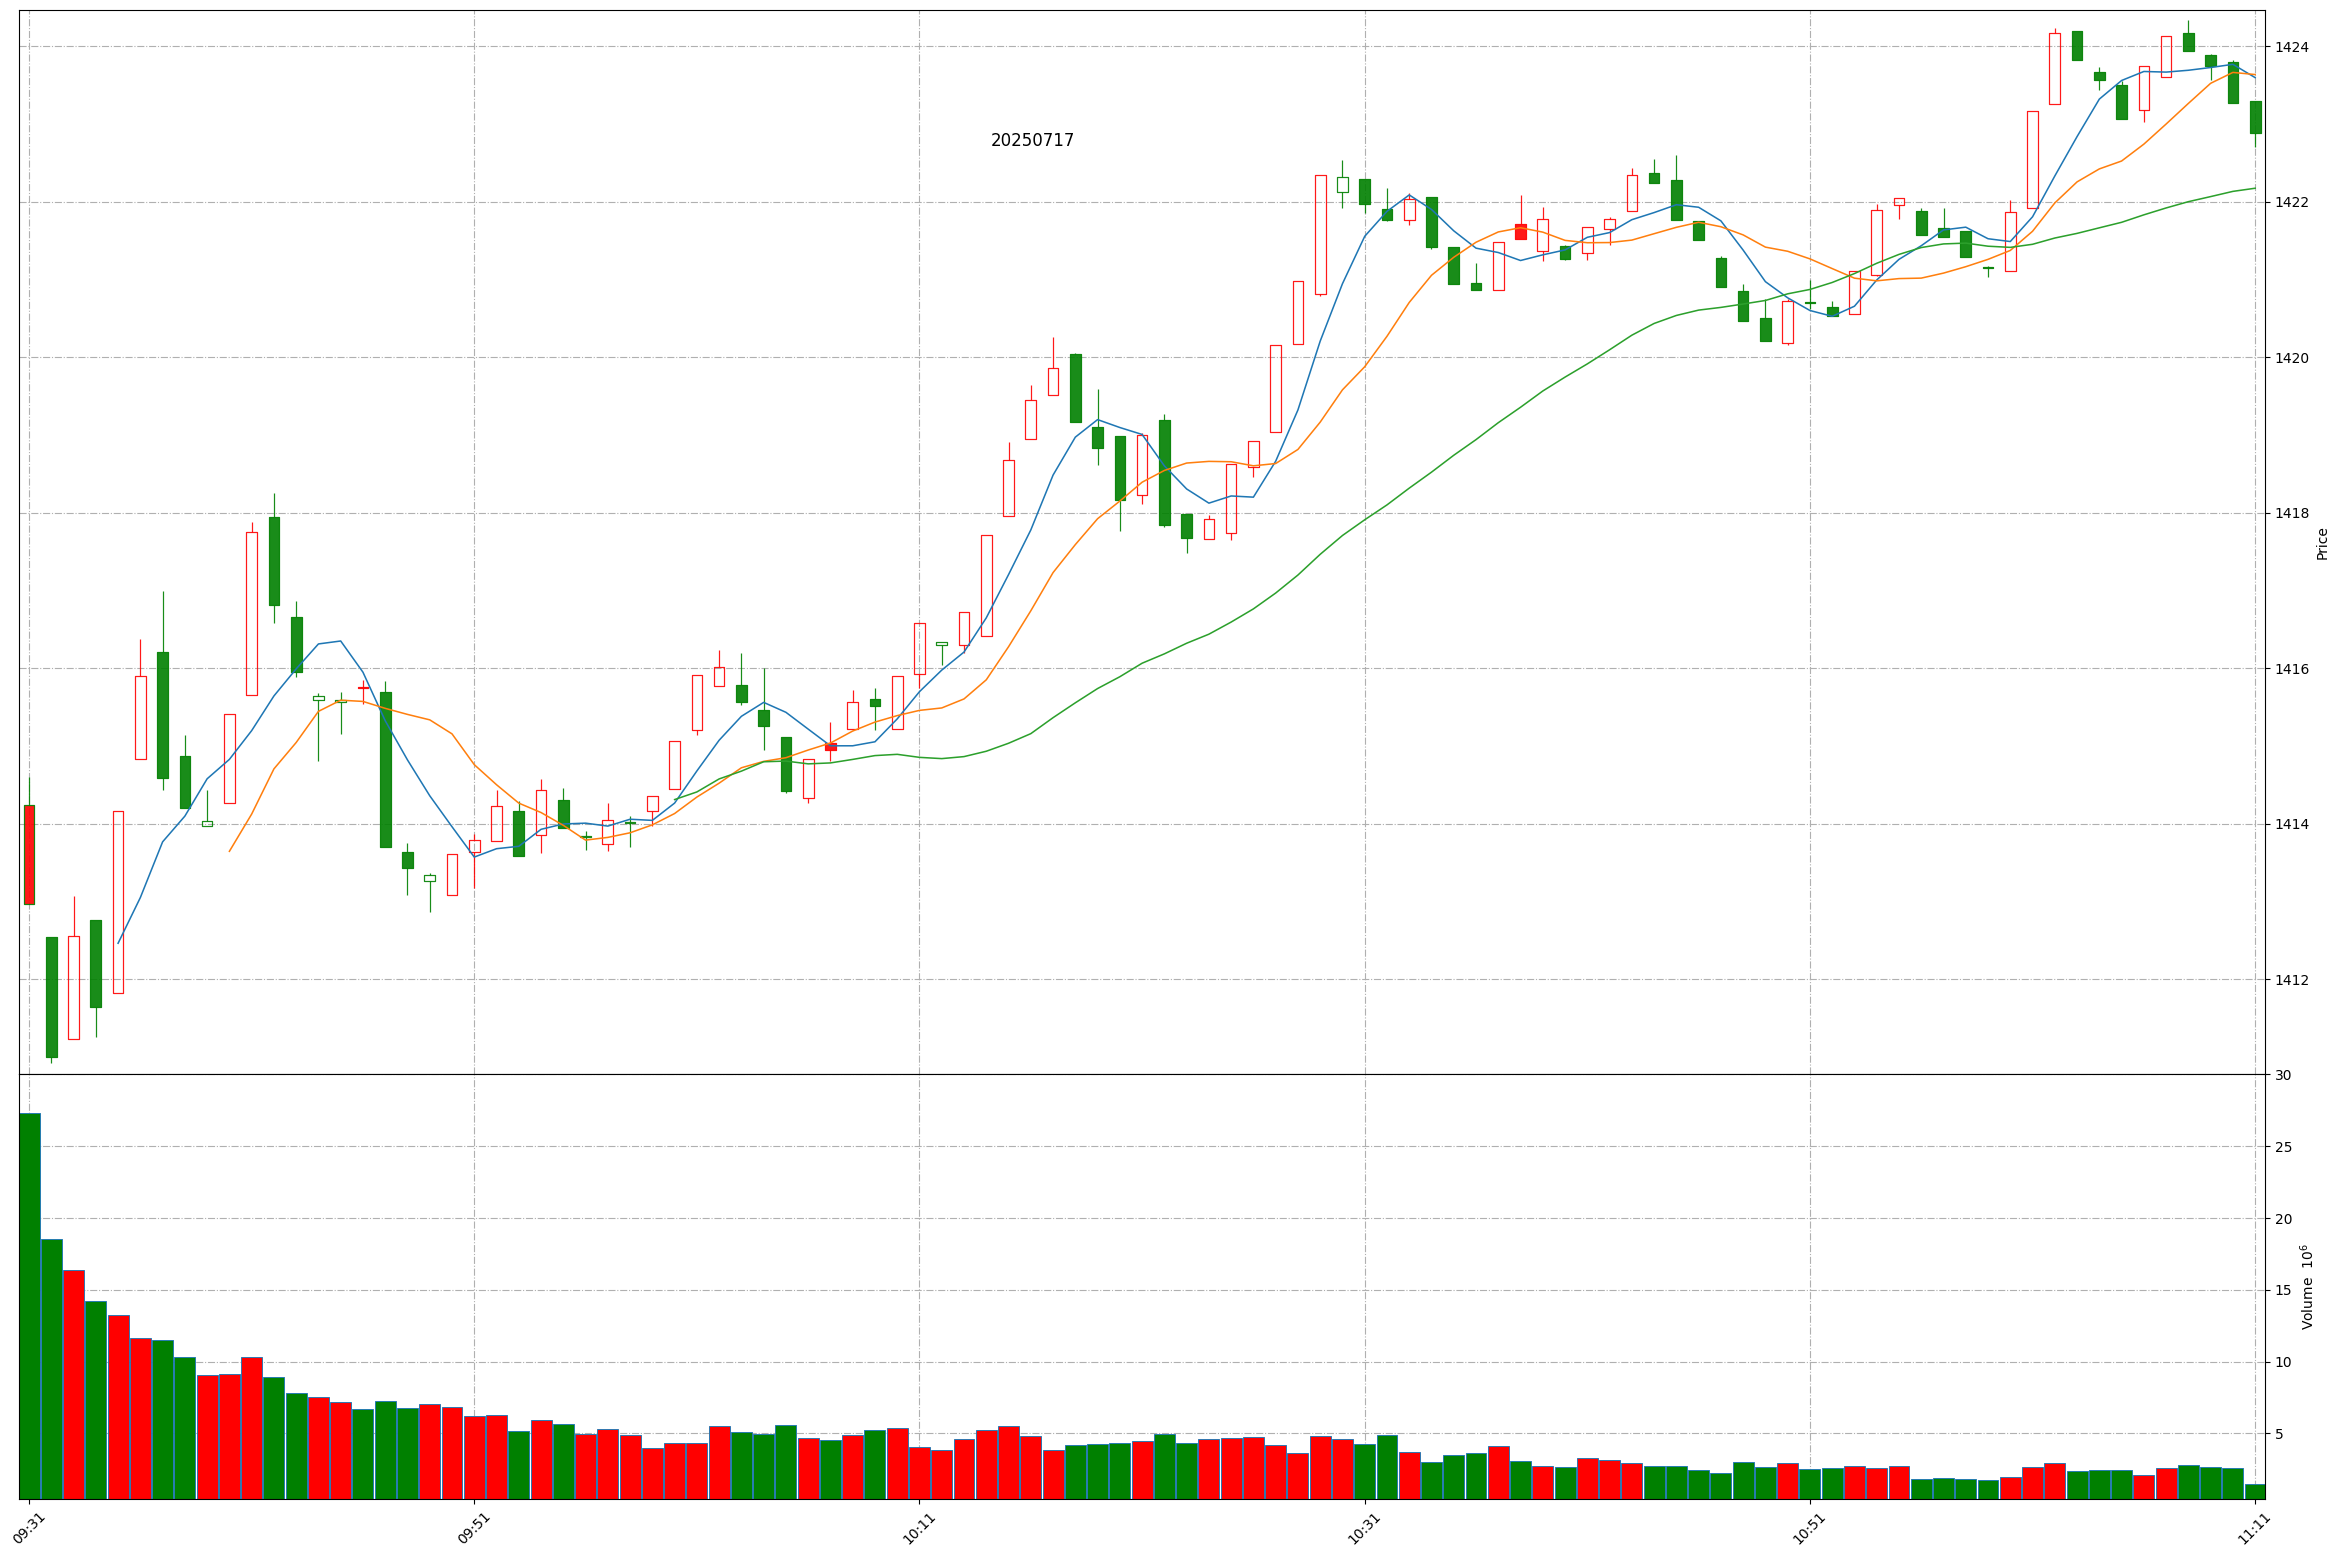
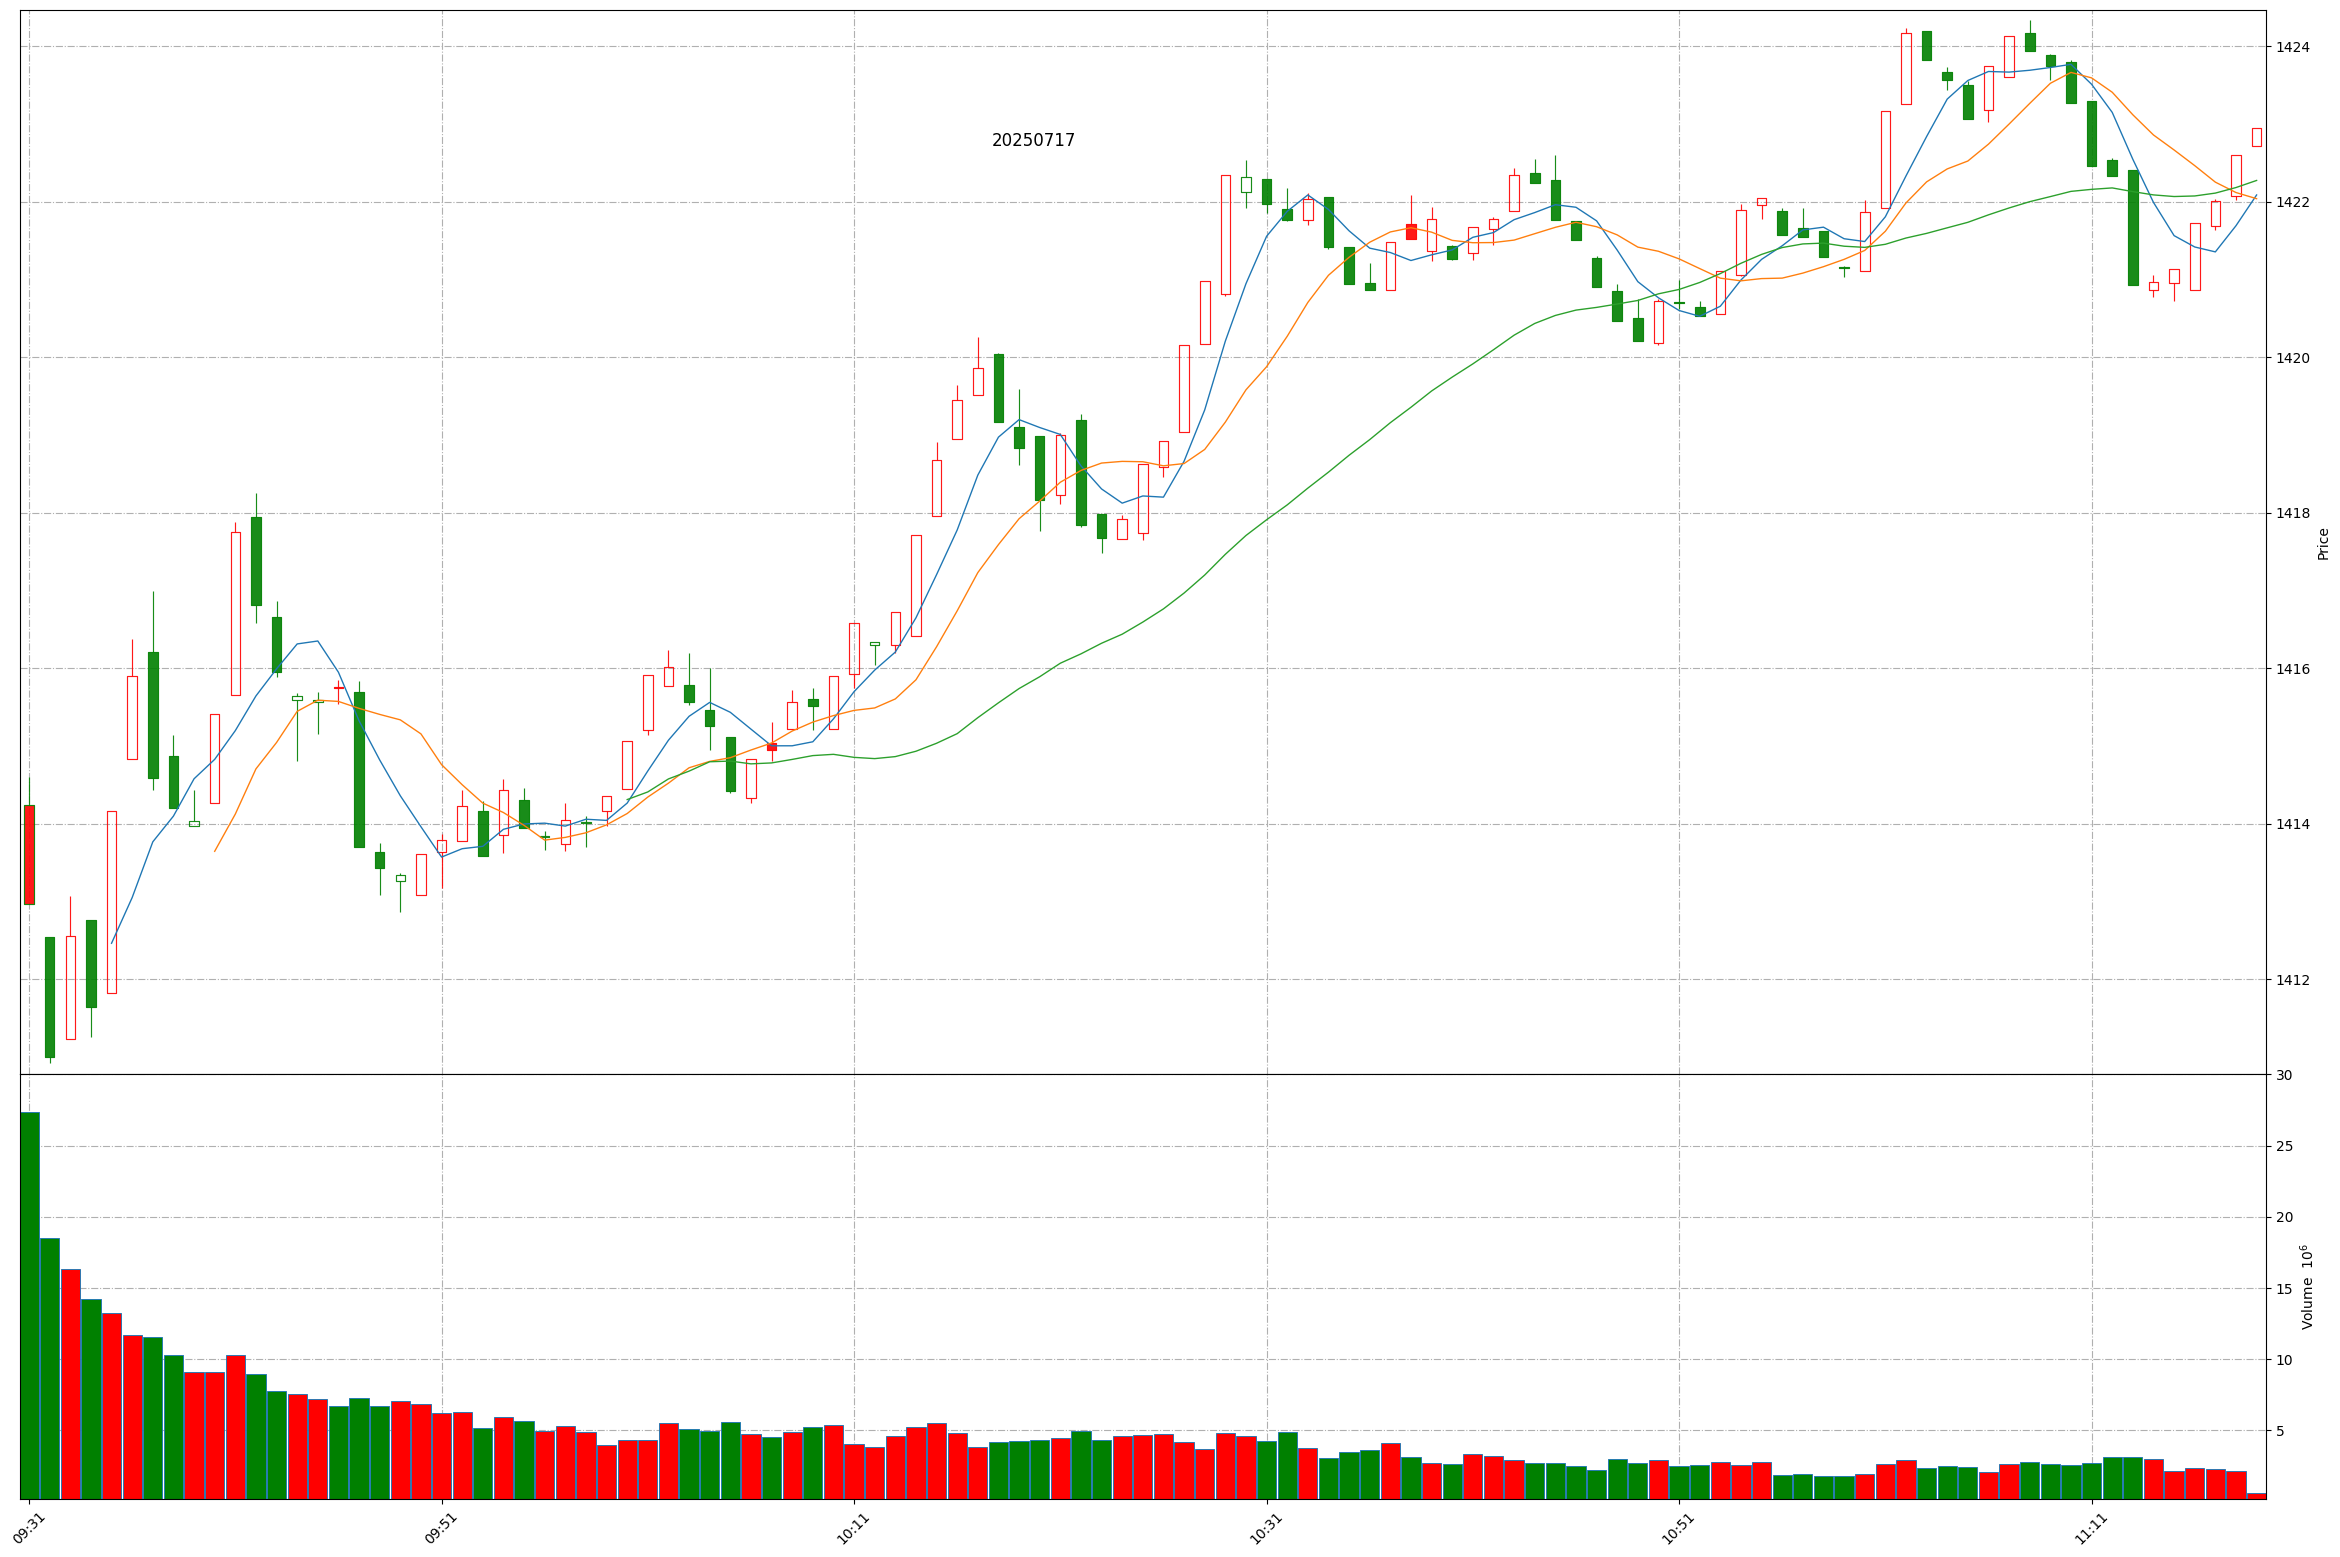
Github action update at 2025-07-17 11:18:24.

diff --git a/README.md b/README.md
@@ -1,11 +1,11 @@
 
 # Daily-A-share-market-quotes 每日 A 股指数（5min 更新）- 20250717
 
-### 上证指数 20250717 11:10
+### 上证指数 20250717 11:18
 ![](./fig/2025/7/20250717-sh000001.png)
 
-### 深证成指 20250717 11:10
+### 深证成指 20250717 11:18
 ![](./fig/2025/7/20250717-sz399001.png)
 
-### 北证50 20250717 11:10
+### 北证50 20250717 11:18
 ![](./fig/2025/7/20250717-bj899050.png)
